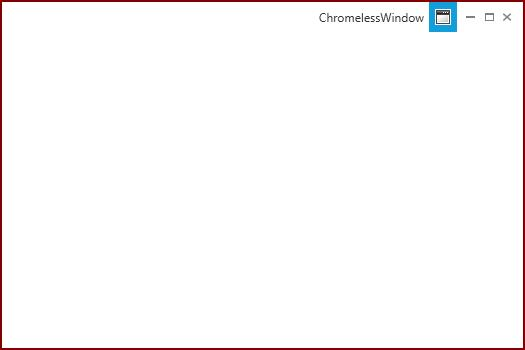
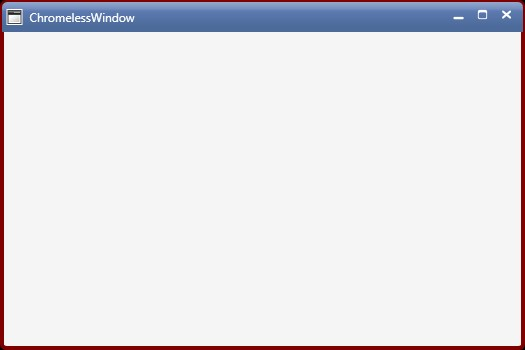
WPF_965207_Modified_Chromelsswindow_Content

Changed region(s): [[0.0, 0.0, 1.0, 1.0]]

diff --git a/wpf/Chromeless-Window/Customizing-Border-of-the-ChromelessWindow.md b/wpf/Chromeless-Window/Customizing-Border-of-the-ChromelessWindow.md
@@ -21,7 +21,7 @@ To set the ResizeBorderBrush property, use the below code
 <syncfusion:ChromelessWindow x:Class="Chromelesswindow.MainWindow"
 xmlns="http://schemas.microsoft.com/winfx/2006/xaml/presentation"
 xmlns:x="http://schemas.microsoft.com/winfx/2006/xaml"
-Title="ChromelessWindow" Height="350" Width="525" ResizeBorderBrush="Maroon" syncfusion:SkinStorage.VisualStyle="Metro"     
+Title="ChromelessWindow" Height="350" Width="525" ResizeBorderBrush="Maroon"    
 x:Name="_chromelessWindow"    xmlns:syncfusion="clr-namespace:Syncfusion.Windows.Shared;assembly=Syncfusion.Shared.WPF" >
 <Grid>
 </Grid>
@@ -58,7 +58,7 @@ To set this property, use the following code.
 <syncfusion:ChromelessWindow x:Class="Chromelesswindow.MainWindow"
 xmlns="http://schemas.microsoft.com/winfx/2006/xaml/presentation"
 xmlns:x="http://schemas.microsoft.com/winfx/2006/xaml"
-Title="ChromelessWindow" Height="350" Width="525" ResizeBorderThickness="8"  syncfusion:SkinStorage.VisualStyle="Metro"     
+Title="ChromelessWindow" Height="350" Width="525" ResizeBorderThickness="8"    
 x:Name="_chromelessWindow"    xmlns:syncfusion="clr-namespace:Syncfusion.Windows.Shared;assembly=Syncfusion.Shared.WPF" >
 <Grid>
 </Grid>
